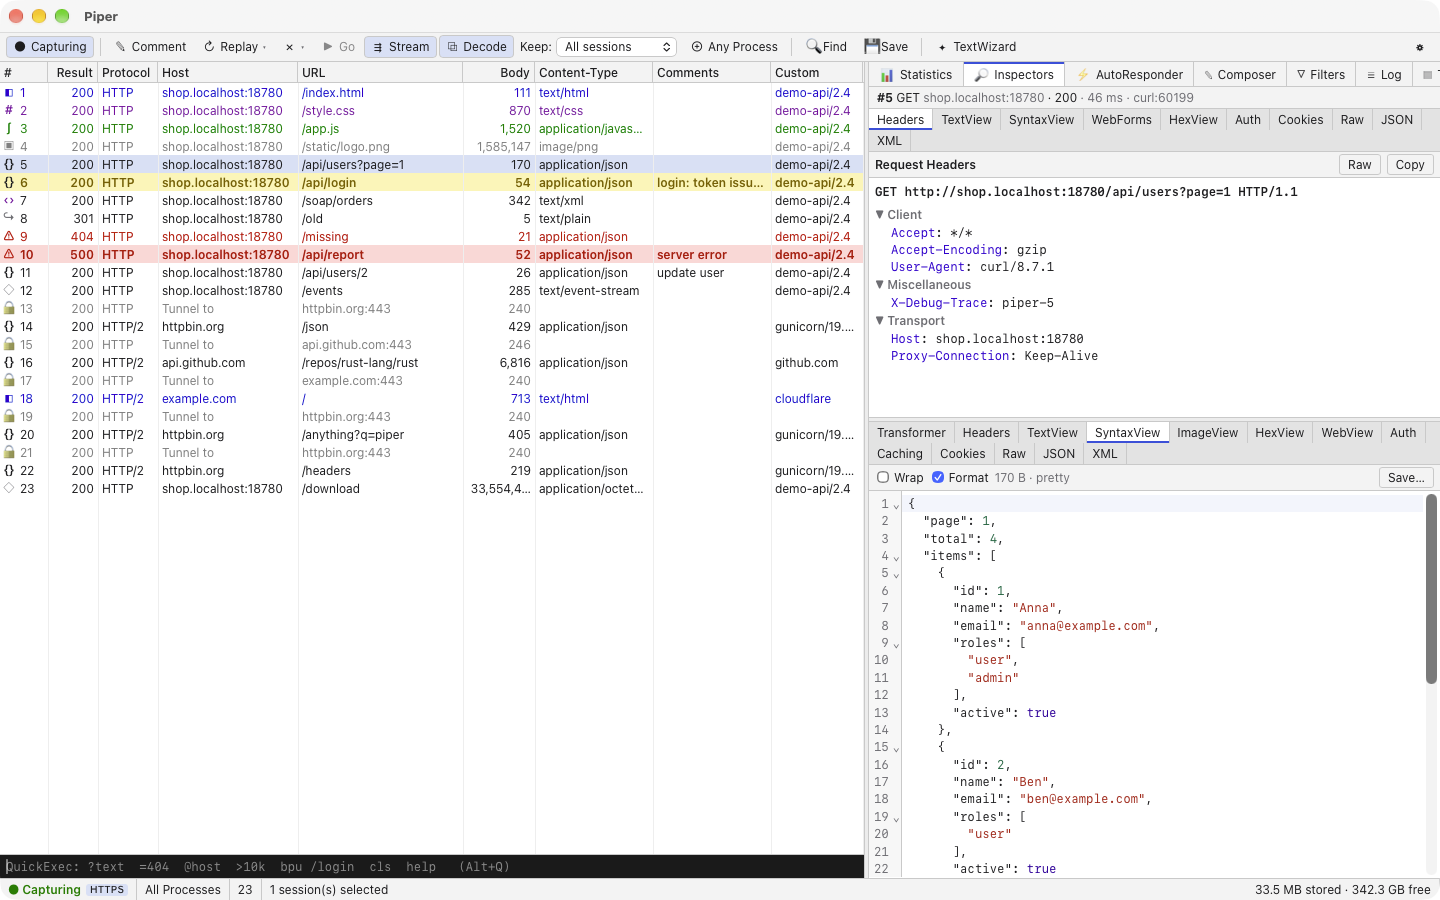
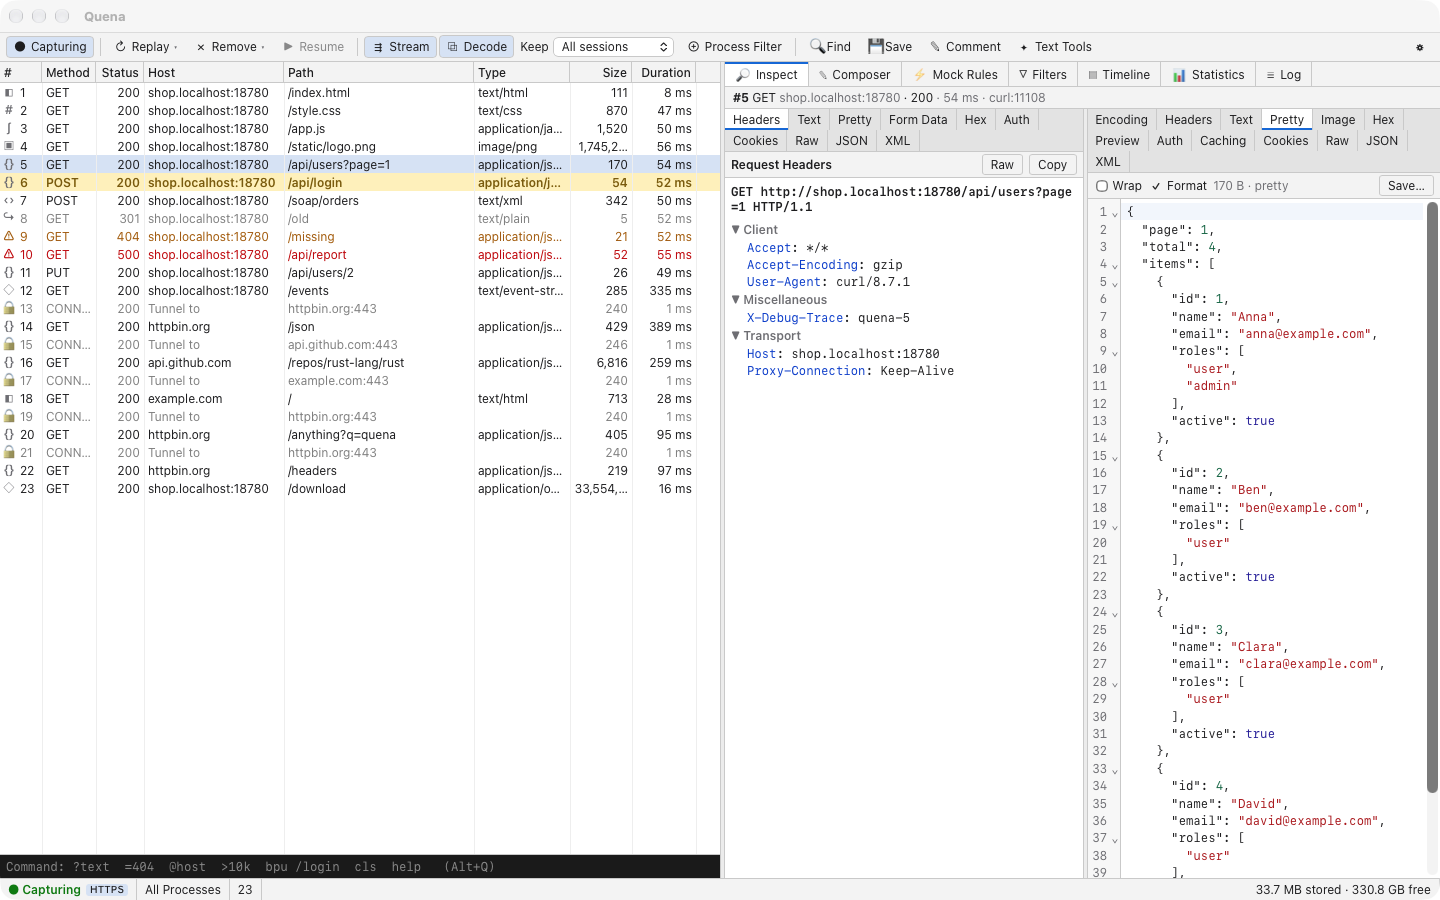
Layout tuning and new screenshots
- Default layout: the list takes half the window and its columns fit without
  horizontal scrolling (# · Method · Status · Host · Path · Type · Size ·
  Duration; Process available in the column menu).
- restoreLayout falls back gracefully for unknown preset names.
- Screenshots retaken with the new name and default layout, plus the optional
  Classic layout.

Claude-Session: https://claude.ai/code/session_01LWXv3WHagzijtEMjK1Pf9n

diff --git a/app/ui/src/store.ts b/app/ui/src/store.ts
@@ -55,15 +55,15 @@ const col = (key: ColumnKey, width: number, visible: boolean, align?: "left" | "
 
 /** Quena's default columns: what, where, outcome, size, time. */
 export const DEFAULT_COLUMNS: ColumnConf[] = [
-  col("id", 56, true, "left"),
-  col("method", 64, true),
-  col("result", 56, true, "right"),
-  col("host", 160, true),
-  col("url", 250, true),
-  col("contentType", 120, true),
-  col("body", 76, true, "right"),
-  col("duration", 76, true, "right"),
-  col("process", 90, true),
+  col("id", 42, true, "left"),
+  col("method", 54, true),
+  col("result", 48, true, "right"),
+  col("host", 140, true),
+  col("url", 190, true),
+  col("contentType", 96, true),
+  col("body", 62, true, "right"),
+  col("duration", 64, true, "right"),
+  col("process", 90, false),
   col("protocol", 70, false),
   col("comments", 120, false),
   col("custom", 90, false),
@@ -108,7 +108,7 @@ type PresetParts = Pick<Layout, "leftWidth" | "inspectorSplit" | "stacked" | "co
 
 export const PRESETS: Record<LayoutPreset, PresetParts> = {
   // List left, request and response side by side.
-  quena: { leftWidth: 0.42, inspectorSplit: 0.5, stacked: false, columns: DEFAULT_COLUMNS },
+  quena: { leftWidth: 0.5, inspectorSplit: 0.5, stacked: false, columns: DEFAULT_COLUMNS },
   // Dense list, request above response.
   classic: { leftWidth: 0.52, inspectorSplit: 0.42, stacked: true, columns: CLASSIC_COLUMNS },
 };
@@ -125,7 +125,9 @@ export const DEFAULT_LAYOUT: Layout = {
 export function restoreLayout(saved: Partial<Layout> | undefined): Layout {
   if (!saved) return { ...DEFAULT_LAYOUT, columns: [...DEFAULT_COLUMNS] };
   // Layouts saved before presets existed: stacked inspectors meant the classic arrangement.
-  const preset: LayoutPreset = saved.preset ?? (saved.stacked === false ? "quena" : "classic");
+  // Unknown/legacy preset names (e.g. from before the rename) fall back by arrangement.
+  const preset: LayoutPreset =
+    saved.preset && saved.preset in PRESETS ? saved.preset : saved.stacked === false ? "quena" : "classic";
   const base = PRESETS[preset];
   const layout: Layout = { ...DEFAULT_LAYOUT, ...base, ...saved, preset, presetChosen: saved.presetChosen ?? false };
   // Titles from the key; columns added in newer versions are appended (hidden if unknown to the preset).

diff --git a/README.md b/README.md
@@ -25,7 +25,7 @@ Capture, inspect, change and replay HTTP(S) traffic — on macOS, Windows and Li
 
 <br>
 
-<img src="docs/screenshots/overview.png" alt="Quena main window: session list, request headers and a pretty-printed JSON response" width="920">
+<img src="docs/screenshots/overview.png" alt="Quena main window: session list, request headers and pretty-printed JSON response side by side" width="920">
 
 </div>
 
@@ -135,8 +135,8 @@ Quena is an independent, open-source take on this kind of tool, with its own des
 <p align="center"><sub><b>JavaScript rules</b> — hooks, custom menu and column, live console</sub></p>
 </td>
 <td width="50%">
-<img src="docs/screenshots/overview.png" alt="Main window with script-populated Comments and Custom columns">
-<p align="center"><sub><b>Session list</b> — comments, colors and the Custom column set by a script</sub></p>
+<img src="docs/screenshots/classic-layout.png" alt="Optional Classic layout: dense session list, request above response">
+<p align="center"><sub><b>Classic layout</b> — optional: denser list, request above response</sub></p>
 </td>
 </tr>
 </table>
